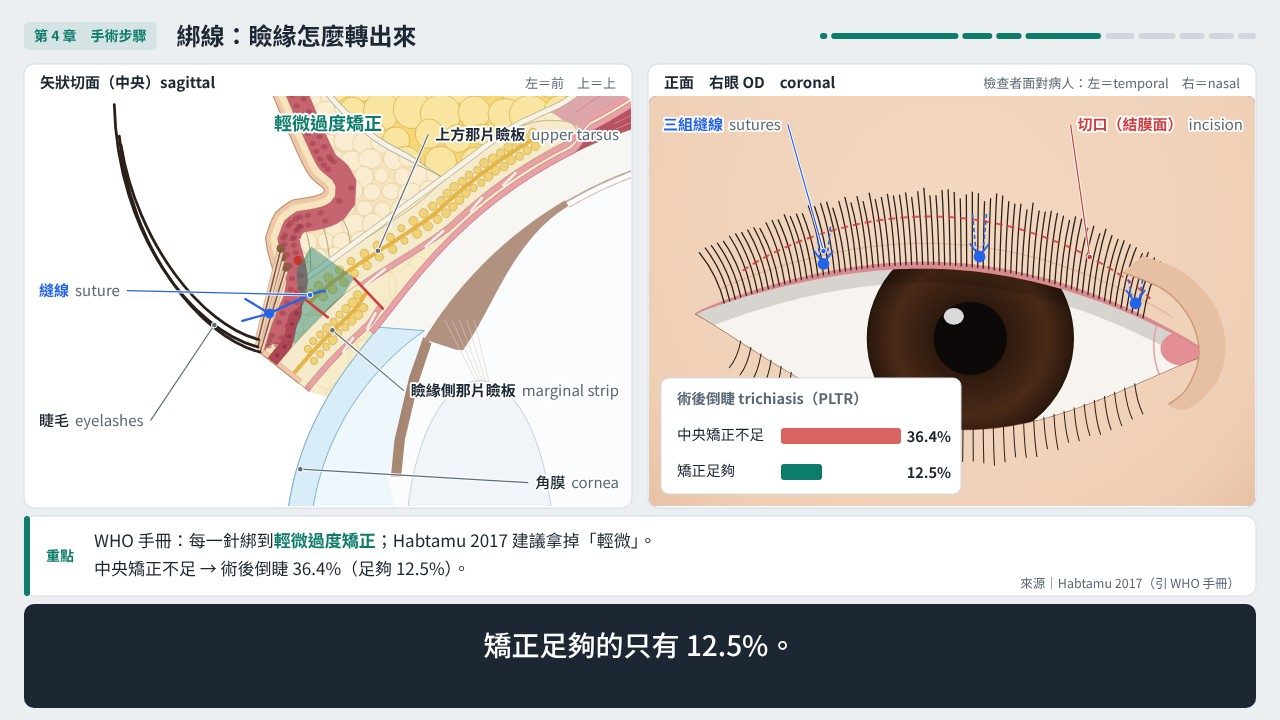
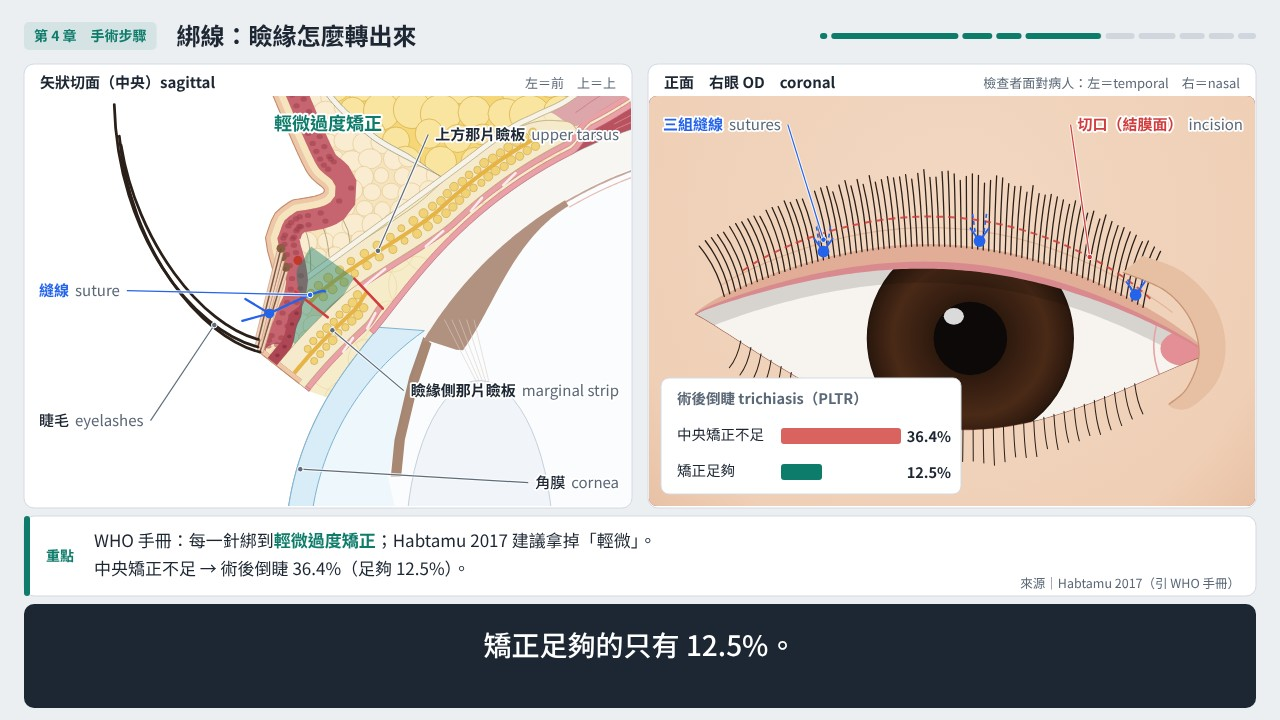
PLTR 影片新版面：6-1「BLTR 和 PLTR 差在哪」換成雙視角；4-3、4-4 參考圖更新為待確認
6-1 左邊矢狀切面顯示 BLTR 從皮膚全層切到結膜，並標出 PLTR 只切的那一段；右邊皮膚面顯示切口與出血較多。
因正面圖睫毛線修正，4-3、4-4 的參考圖更新並標為待站長確認；6-1 參考圖新增待確認。規格書進度更新。

Changed region(s): [[0.5312, 0.2444, 0.9375, 0.4583]]

diff --git a/videos/src/upper-lid-margin-rotation/anim/draw2.js b/videos/src/upper-lid-margin-rotation/anim/draw2.js
@@ -82,3 +82,16 @@ DRAW2['4-3'] = T => {
   rx += lab('間距對稱：差 ≤ 2 mm', 'symmetric spacing', 14, PH - 20, B.spacing, { color: COL.accent, bold: true, op: T.on(4) });
   return { L: { svg: sv.svg, extra: ex, P: SAG_T }, R: { svg: cv.svg, extra: rx, P: COR_T } };
 };
+
+DRAW2['6-1'] = T => {
+  const sv = VIEWS.sag({ curl: 1, bltr: T.p(0, 0.3, 1), scar: 0.6 }, PW, PH, SAG_WIN, 'sL'), A = sv.A;
+  const cv = VIEWS.cor({ evert: -1, skinCut: T.p(0, 0.3, 1), skinBleed: T.on(2) }, PW, PH, { x: -17.5, y: -13.2, w: 33 }, 'cR'), B = cv.A;
+  const lab = VIEWS.lab2;
+  let ex = lab('BLTR：全層切開，皮膚 → 結膜', 'full thickness', PW - 12, 44, A.bltrMid, { side: 'R', color: COL.red, bold: true, op: T.on(0) });
+  ex += lab('PLTR 只切這一段（結膜＋瞼板）', 'PLTR', PW - 12, 300, A.postCut, { side: 'R', color: COL.sub, bold: true, op: T.on(0, 0.6, 0.8) });
+  ex += lab('兩層之間不分離', 'no dissection', 14, 200, A.strip, { color: COL.red, bold: true, op: T.on(1) });
+  ex += lab('睫毛', 'eyelashes', 14, 330, A.lash) + lab('角膜', 'cornea', PW - 12, 392, sv.P([-12.75, -2.2]), { side: 'R' });
+  let rx = lab('皮膚切口：離瞼緣 3 mm', 'skin incision', PW - 12, 34, B.skinCut, { side: 'R', color: COL.red, bold: true, op: T.on(0) });
+  rx += lab('出血較多', 'more bleeding', 14, PH - 20, B.skinBleed, { color: '#a1271b', bold: true, op: T.on(2) });
+  return { L: { svg: sv.svg, extra: ex, P: SAG_T }, R: { svg: cv.svg, extra: rx, P: COR_T } };
+};

diff --git a/videos/src/upper-lid-margin-rotation/redo-spec.md b/videos/src/upper-lid-margin-rotation/redo-spec.md
@@ -73,5 +73,5 @@
 - 縫線中段的路徑：舊腳本已註明是假設（`script-draft.md` 開頭「畫面上的假設」），沿用並在畫面標示依院內常規；WHO 手冊讀到後再核對。
 
 ## 進度
-- 目前位置：站長 2026-11-04 確認規格、4-4 畫法、4-1 與 4-2。第 4 章（4-1～4-4）已全部換成新模型（`anim/draw2.js`）；4-3 的參考圖待站長確認。延續品質用的工具、檢查與參考圖在 `videos/tools/`、`ref/`。
-- 下一步：第 6 章 → 第 1 章 → 3-1 與 3-2 → 第 5 章 → 片頭；每換完一段跑 `node videos/tools/check-all.js videos/src/upper-lid-margin-rotation`，每換完一章交截圖並加進參考圖。全部換完後重新合成語音、出片。
+- 目前位置：第 4 章（4-1～4-4）與 6-1 已換成新模型。正面圖的睫毛改長在前瞼緣（BLTR 皮膚切口量起來才是旁白說的 3 mm），4-3、4-4、模型樣本因此有小改變，參考圖已更新但標為待站長確認；6-1 參考圖待確認。
+- 下一步：6-2（先請站長決定單眼皮的切口高度）→ 第 1 章 → 3-1 與 3-2 → 第 5 章 → 片頭；每換完一段跑 `node videos/tools/check-all.js videos/src/upper-lid-margin-rotation`，每換完一章交截圖並加進參考圖。全部換完後重新合成語音、出片。
